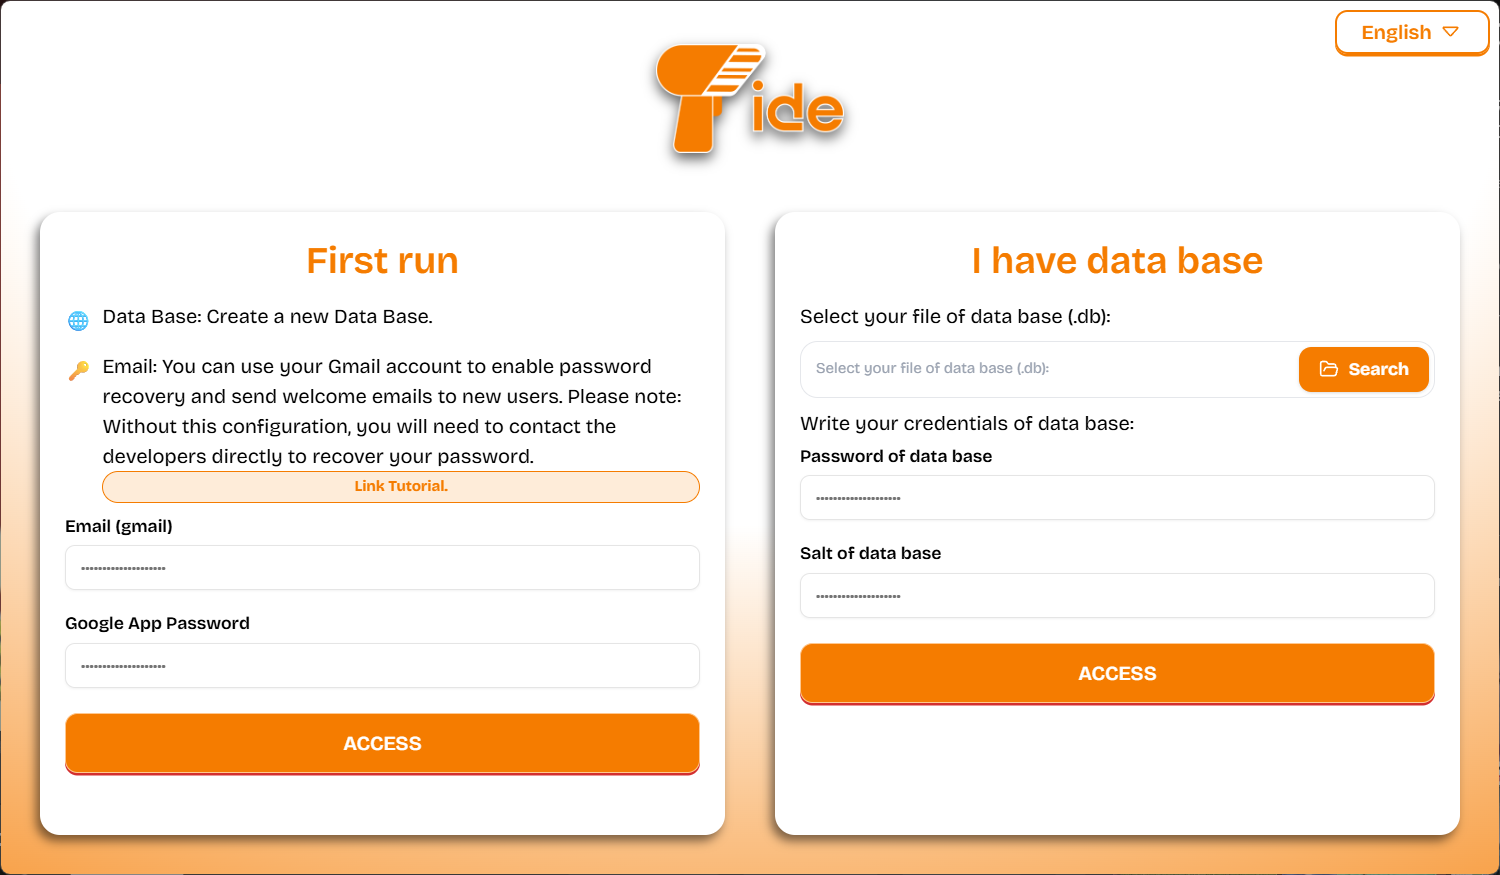
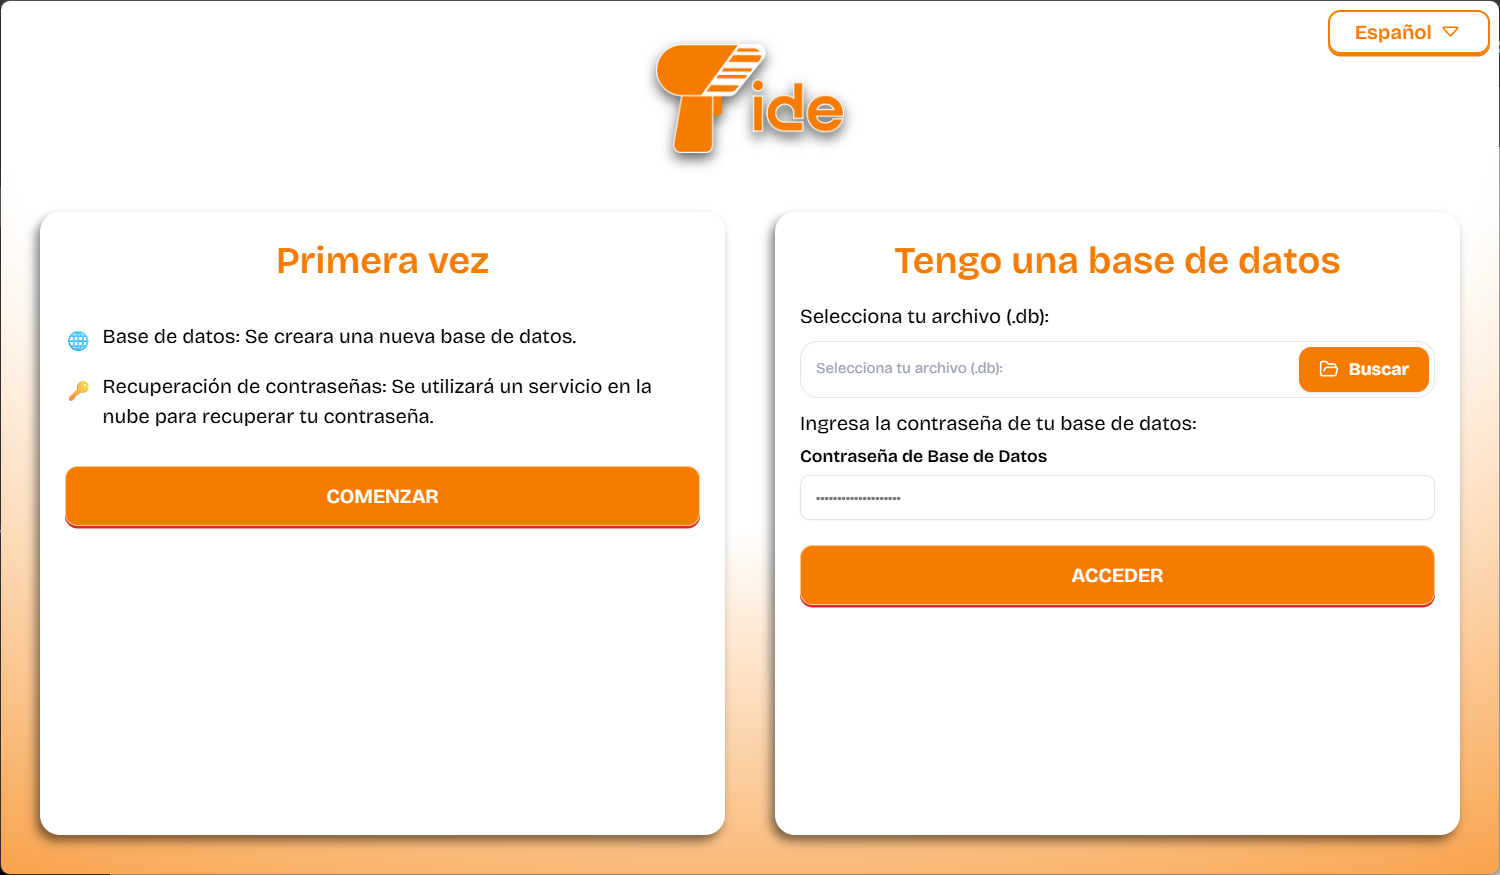
docs:update readme

diff --git a/README.md b/README.md
@@ -35,7 +35,6 @@ Aplicación de escritorio de punto de venta para PyMEs. Permite gestionar ventas
   - [🛠 Tecnologías](#-tecnologías)
   - [✅ Requisitos previos](#-requisitos-previos)
   - [🚀 Instalación](#-instalación)
-  - [⚙ Configuración](#-configuración)
   - [💻 Uso y Scripts](#-uso-y-scripts)
   - [📸 Sistema](#-sistema)
   - [📁 Estructura del proyecto](#-estructura-del-proyecto)
@@ -53,13 +52,6 @@ Aplicación de escritorio de punto de venta para PyMEs. Permite gestionar ventas
 - 📄 **Reportes Profesionales:** Generación y exportación de datos en formatos **PDF, Excel y CSV**.
 - 🖥 **Arquitectura de Escritorio:** Ejecución local segura y rápida (vía Electron).
 - 🌐 **Soporte Multi-idioma:** Inglés y Español con i18n.
-
-> [!IMPORTANT]
-> ⚠ Configuración de Credenciales de Correo (Opción: Importar Archivo)
->
-> Actualmente, el sistema presenta una limitación técnica al utilizar la Opción 2 (Importar base de datos existente).
->
-> Al importar un archivo .db, el flujo de inicio omite la configuración de las credenciales de email. Esta configuración solo se completa de forma automática cuando se genera una base de datos nueva desde cero.
 
 ---
 
@@ -79,7 +71,7 @@ Aplicación de escritorio de punto de venta para PyMEs. Permite gestionar ventas
 | Formularios        | react-hook-form + Zod                                |
 | Gráficas           | Recharts                                             |
 | Exportación        | jsPDF, xlsx                                          |
-| Email              | Nodemailer                                           |
+| Email              | API externa                                          |
 | Package manager    | pnpm                                                |
 
 ---
@@ -88,7 +80,6 @@ Aplicación de escritorio de punto de venta para PyMEs. Permite gestionar ventas
 
 - [Node.js](https://nodejs.org/)
 - [pnpm](https://pnpm.io/installation)
-- Contraseña de aplicación de [Google](https://youtu.be/06rHLejczJE)
 
 ---
 
@@ -101,33 +92,6 @@ cd fidePOS
 
 # 2. Instalar dependencias
 pnpm install
-```
-
----
-
-## ⚙ Configuración
-
-Crea un archivo `.env` en la raíz del proyecto con tus credenciales:
-
-```env
-# -----------------------------------------------------------------------
-# CONFIGURACIÓN DE CORREO ELECTRÓNICO
-# -----------------------------------------------------------------------
-
-# La dirección de correo desde la cual se enviarán los mensajes.
-# Ejemplo: mi_negocio@gmail.com
-EMAIL_USER=email@gmail.com
-
-# ¡IMPORTANTE! No es tu contraseña normal de inicio de sesión.
-# Para Gmail/Outlook, debes generar una "Contraseña de Aplicación" de 16 dígitos
-# desde la configuración de seguridad (2FA) de tu cuenta.
-# Ejemplo: abcd efgh ijkl mnop
-EMAIL_PASS=xxxx xxxx xxxx xxxx
-
-# El nombre del servicio de correo que utilizas para que Nodemailer lo reconozca.
-# Valores comunes: 'gmail', 'hotmail', 'outlook', 'yahoo', 'icloud'.
-# Si usas un dominio propio, aquí suele ir la configuración de 'host' (smtp.tuservicio.com).
-EMAIL_SERVICE=gmail
 ```
 
 ---
@@ -159,7 +123,7 @@ El instalador se genera en la carpeta `releases/`. Durante el desarrollo, el ser
 
 | Vista del Sistema                                   | Descripción                                                                                                                                                                                              |
 | :-------------------------------------------------- | :------------------------------------------------------------------------------------------------------------------------------------------------------------------------------------------------------- |
-| ![Dashboard](./public/screenshots/welcome.png)      | **Panel Principal:** Dos opciones de arranque: 1. Base de Datos nueva con o sin credenciales para correos electrónicos. 2. Si ya tienes una Base de Datos de FidePOS agregala y coloca tus credenciales. |
+| ![Dashboard](./public/screenshots/welcome.png)      | **Panel Principal:** Dos opciones de arranque: 1. Crear una base de datos nueva. 2. Importar una base de datos existente de FidePOS con tu contraseña. |
 | ![Dashboard](./public/screenshots/dashboard.png)    | **Panel Principal:** Visualización de métricas de ventas diarias, ganancias y estado general del negocio mediante gráficas interactivas.                                                                 |
 | ![Inventory](./public/screenshots/nuevaVenta.png)   | **Ventas:** Interfaz ágil para registrar nuevas ventas, aplicar descuentos y procesar diferentes métodos de pago.                                                                                        |
 | ![Customers](./public/screenshots/inventario.png)   | **Inventario:** Control total de stock, categorías y precios.                                                                                                                                            |
